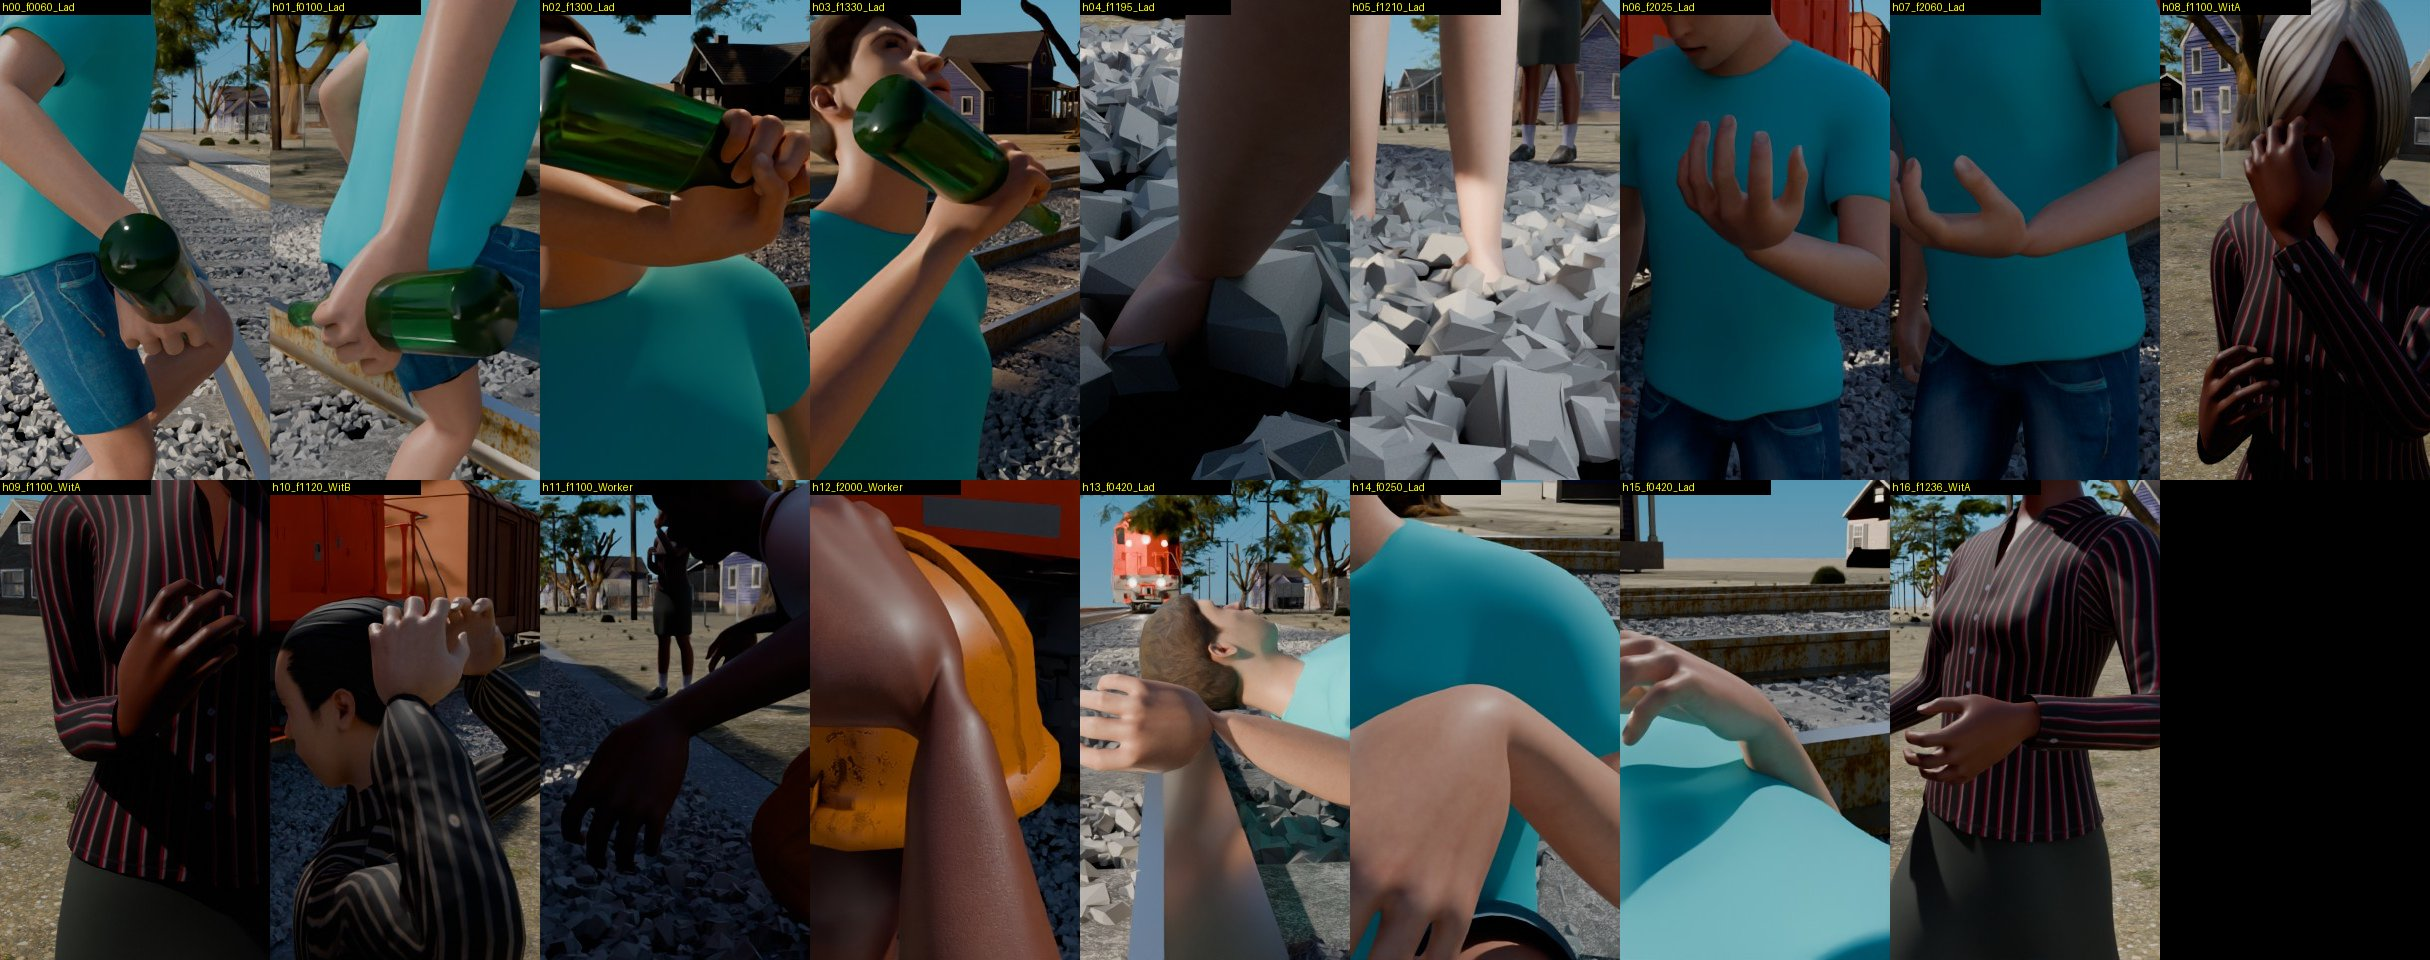
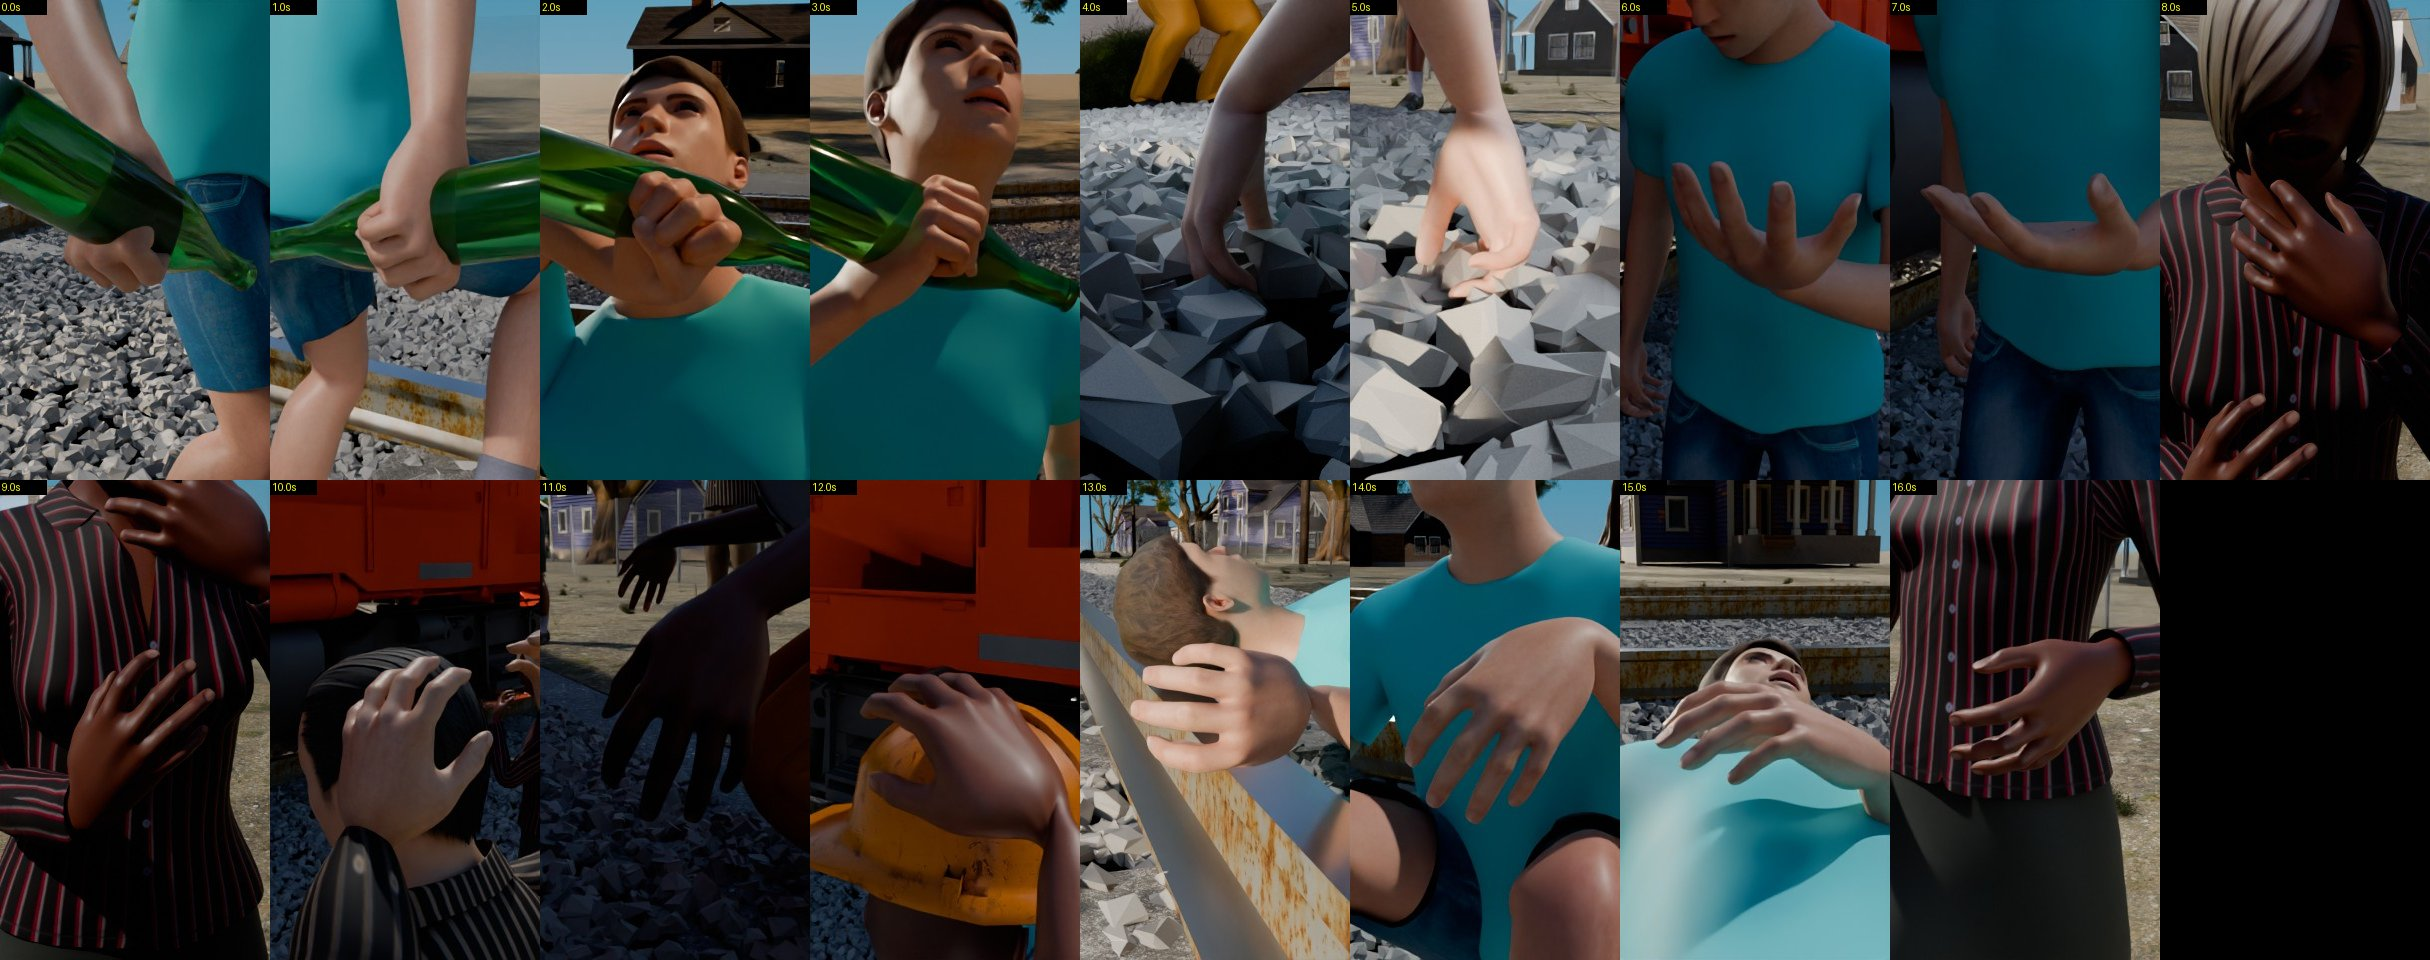
DrunkTrain v005: self-check fixes (relaxed fingers, open palm, crawl hands on stones, WitA hand at mouth, beat cameras, close-ups aimed with occlusion test)
Claude-Session: https://claude.ai/code/session_01XfwPSkp8x1sSXVwc46CaT2

diff --git a/blender/DrunkTrain_v001/scripts/03b_fx_camera.py b/blender/DrunkTrain_v001/scripts/03b_fx_camera.py
@@ -150,6 +150,7 @@ f_shut = 262; f_open = sc["f_stir"] + 8
 ramp_keys(LADO, LIDS, [(1, 18), (60, 26), (64, 6), (68, 22), (f_shut - 30, 22), (f_shut, 46), (f_open, 46), (f_open + 10, 20),
                        (f_open + 30, 10), (f_open + 34, 40), (f_open + 38, 12), (sc.frame_end - 120, 14), (sc.frame_end - 116, 38), (sc.frame_end - 112, 18)])
 # hands (client, 23:00): relaxed curled default on every character, anatomical limits on fingers, thumbs and wrists
+f_palm0_x = eval(sc["palm"])[0]
 RIGS4 = [bpy.data.objects[n] for n in ("Lad", "WitA", "WitB", "Worker")]
 def finger_names(rig, s_):
     return [b.name for b in rig.data.bones if b.name.startswith("finger") and b.name.endswith("." + s_)]
@@ -180,10 +181,13 @@ for rg in RIGS4:
         for n in finger_names(rg, s_):
             if n in keyed: continue
             j = int(n.split("-")[1].split(".")[0]); thumb = n.startswith("finger1")
-            key_local_rot(rg, n, 1, (10 if thumb else 14 + 6 * j))
+            key_local_rot(rg, n, 1, (8 if thumb else 8 + 4 * j))      # v005: softer, so idle hands read relaxed (no claws)
 # Lad's open right hand (outside the bottle grips) also relaxes rather than going flat
 FING_R = [("finger%d-%d.R" % (i, j), 0.6 if i == 1 else 1.0) for i in range(1, 6) for j in range(1, 4)]
 ramp_keys(LADO, FING_R, [(f_drop + 4, 28), (f_fb0 - 14, 28), (f_fb1 + 4, 28)])
+# v005: Lad's left hand opens flat-ish while he looks at his palm (beat 12), not a claw
+FING_L = [("finger%d-%d.L" % (i, j), 0.5 if i == 1 else 1.0) for i in range(1, 6) for j in range(1, 4)]
+ramp_keys(LADO, FING_L, [(1, 16), (f_palm0_x - 4, 16), (f_palm0_x + 8, 6), (sc.frame_end, 6)])
 # faces: snore (jaw), horror (jaw drop), stunned/dazed lids, the final dopey grin
 def key_jaw(rig, f, deg): key_local_rot(rig, "jaw", f, deg)
 def key_grin(rig, f, k):
@@ -607,14 +611,14 @@ CAM = [  # frame, camera, aim, lens
     (842, V(1.9, y(842) - 1.2, 0.36), lad_p(842), 20),
     (866, V(2.7, -42.8, 0.45), V(0.2, -40.0, 0.25), 24),
     (905, V(2.35, TF(905) + 1.5, 0.7), V(0.72, TF(905) + 4.5, 0.5), 24),
-    (935, V(3.5, -46.0, 2.2), V(0.9, -50.0, 0.8), 23),
+    (935, V(3.5, -46.0, 2.2), V(0.9, -42.5, 0.9), 23),      # v005: on the train braking, not the empty track
     (960, V(5.6, -31.0, 2.2), V(1.0, -45.0, 1.0), 22),
     (1015, V(7.6, -33.5, 6.4), V(2.2, -42.0, 0.6), 22),
     (1045, V(2.0, -40.2, 1.5), V(3.8, -38.9, 1.25), 20),
     (1090, V(1.95, -39.2, 1.45), V(3.9, -39.4, 1.2), 20),
     (1113, V(1.8, -40.4, 1.45), V(4.0, -38.4, 1.3), 18),
     (1138, V(1.85, -40.1, 0.95), V(2.62, -41.6, 0.8), 24),
-    (1168, V(2.7, -40.9, 0.62), V(0.3, -40.0, 0.35), 24),
+    (1168, V(2.6, -40.8, 0.3), V(0.5, -40.0, 0.38), 22),      # v005: under the skirt line, so his face reads as he stirs
     (1200, V(2.95, -41.0, 0.5), V(1.3, -40.0, 0.45), 24),
     (1230, V(3.45, -40.95, 0.9), V(2.2, -40.1, 1.05), 26),
     (1250, V(3.95, -40.6, 1.45), V(2.4, -40.1, 1.45), 28),
@@ -625,15 +629,15 @@ CAM = [  # frame, camera, aim, lens
     (1440, V(3.45, -40.1, 1.3), V(2.45, -40.1, 1.15), 26),
     (1500, V(3.1, -41.7, 1.35), V(2.45, -40.1, 1.05), 26),
     (1560, V(3.2, -41.25, 1.2), V(2.45, -40.35, 1.05), 32),
-    (1605, V(rp(1605).x + 1.4, rp(1605).y - 1.7, 1.0), rp(1605), 28),
-    (1625, V(rp(1625).x + 0.9, rp(1625).y - 1.0, 0.7), rp(1625), 30),
+    (1605, V(rp(1605).x + 2.1, rp(1605).y - 2.5, 1.3), rp(1605) + V(0, 0, 0.35), 26),
+    (1625, V(rp(1625).x + 1.5, rp(1625).y - 1.7, 1.0), rp(1625) + V(0, 0, 0.25), 28),
     (1680, V(rp(1680).x + 1.3, rp(1680).y - 1.5, 0.85), rp(1680), 28),
     (1750, V(rp(1750).x - 1.1, rp(1750).y - 1.0, 0.8), rp(1750), 30),
     (1812, V(rp(1812).x + 1.0, rp(1812).y - 1.1, 0.75), rp(1812), 30),
     (1834, V(rp(1834).x + 1.0, rp(1834).y - 1.0, 0.8), rp(1834), 30),
-    (1846, V(2.7, -38.0, 1.6), V(2.45, -40.3, 1.1), 26),
-    (1876, V(2.65, -38.3, 1.65), V(2.4, -41.0, 1.3), 28),
-    (1920, V(3.4, -40.0, 1.5), V(2.45, -41.8, 1.2), 28),
+    (1846, V(3.0, -42.5, 1.55), V(2.45, -40.4, 1.4), 26),      # v005: in front of him, face readable at the beat 12 start
+    (1876, V(3.0, -43.2, 1.6), V(2.4, -41.0, 1.5), 28),
+    (1920, V(3.2, -44.0, 1.55), V(2.45, -41.8, 1.45), 28),
     (1985, V(2.95, -44.6, 1.45), V(2.45, -42.85, 1.35), 28),
     (2020, V(2.78, -43.6, 1.5), V(2.5, -43.1, 1.42), 40),
     (2070, V(2.64, -43.8, 1.62), V(2.45, -42.9, 1.63), 40)]

diff --git a/blender/DrunkTrain_v001/scripts/07_hand_closeups.py b/blender/DrunkTrain_v001/scripts/07_hand_closeups.py
@@ -17,13 +17,35 @@ SHOTS = [(60, "Lad", "wrist.R", "bottle grip while staggering"), (100, "Lad", "w
          (1120, "WitB", "wrist.L", "hands on the head"), (1100, "Worker", "wrist.L", "steadying arm"),
          (2000, "Worker", "wrist.R", "scratches his hard hat"), (420, "Lad", "wrist.R", "lying: hand over the rail"),
          (250, "Lad", "wrist.L", "sitting: forearm on the knee"), (420, "Lad", "wrist.L", "lying: hand on the belly"), (1236, "WitA", "wrist.L", "steps back")]
+import math
+def hand_c(r, bn):
+    sd = bn[-2:]; pts = [r.matrix_world @ r.pose.bones[bn].head]
+    for nm in ("finger3-1" + sd, "finger2-1" + sd, "finger3-2" + sd):
+        if nm in r.pose.bones: pts.append(r.matrix_world @ r.pose.bones[nm].tail)
+    return sum(pts, Vector()) / len(pts)
+def clear(dg, cpos, tgt, owner):
+    d = tgt - cpos; L = d.length
+    hit, loc, _, _, ob, _ = sc.ray_cast(dg, cpos, d.normalized(), distance=L + 0.05)
+    if not hit: return False
+    top = ob
+    while top.parent: top = top.parent
+    return (loc - tgt).length < 0.07 and top == owner
 for i, (f, rn, bn, what) in enumerate(SHOTS):
-    sc.frame_set(f); r = bpy.data.objects[rn]
-    w = r.matrix_world @ r.pose.bones[bn].head
-    head = r.matrix_world @ r.pose.bones["head"].head
+    sc.frame_set(f); r = bpy.data.objects[rn]; dg = bpy.context.evaluated_depsgraph_get()
+    w = hand_c(r, bn); head = r.matrix_world @ r.pose.bones["head"].head
     d = (w - head); d.z = 0
-    side = d.normalized() if d.length > 1e-3 else Vector((1, 0, 0))
-    cam.location = w + side * 0.45 + Vector((0, 0, 0.12)) + (Vector((0.0, -0.25, 0.0)))
+    base = math.atan2(d.y, d.x) if d.length > 1e-3 else 0.0
+    best = None
+    for el in (0.25, 0.55, 0.0, 0.85):
+        for da in (0, 30, -30, 60, -60, 90, -90, 120, -120, 150, -150, 180):
+            a = base + math.radians(da)
+            dirv = Vector((math.cos(a) * math.cos(el), math.sin(a) * math.cos(el), math.sin(el)))
+            cp = w + dirv * 0.5
+            if cp.z < 0.05: continue
+            if clear(dg, cp, w, r): best = cp; break
+        if best: break
+    if best is None: best = w + Vector((0.3, -0.3, 0.25)); print("NOCLEAR", i)
+    cam.location = best
     cam.rotation_euler = (w - cam.location).to_track_quat('-Z', 'Y').to_euler()
     sc.render.filepath = os.path.join(out, "h%02d_f%04d_%s.jpg" % (i, f, rn)); bpy.ops.render.render(write_still=True)
     print("HAND", i, f, rn, bn, what)

diff --git a/blender/DrunkTrain_v001/scripts/03_animate.py b/blender/DrunkTrain_v001/scripts/03_animate.py
@@ -465,7 +465,7 @@ for f in list(range(f_crawl0, f_crawl1 + 1, 2)) + [f_crawl1]:
         fwd = 0.35 * (q if q <= 0.6 else 0.6 - (q - 0.6) * 1.5)
         # hand under the shoulder (world: down), knee under the hip: hands planted with palms flat
         Wh = Bm @ (LB.sh[s] + V(sx * 0.04, -0.06 - fwd * 0.4, -0.0))
-        Wh = V(Wh.x, Wh.y, ground_z(Wh.x, Wh.y) + 0.05 + lift)
+        Wh = V(Wh.x, Wh.y, ground_z(Wh.x, Wh.y) + 0.15 + lift)      # v005: palm on top of the stones, not sunk into them
         LAD.key_hand(s, f, Wh, Bm.to_3x3() @ V(0, -1, 0), V(0, 0, -1))
         hw = Bm @ LB.hip[s]; fwd_ = V(math.sin(R_(yaw_c)), -math.cos(R_(yaw_c)), 0)
         kq = (ph + 0.5 * k + 0.5) % 1.0; kf = 0.25 * (kq if kq <= 0.6 else 0.6 - (kq - 0.6) * 1.5); klift = 0.06 * math.sin(math.pi * kq) if kq > 0.6 else 0.0
@@ -673,8 +673,8 @@ for name in BYS:
                 sx = 1 if s == "L" else -1
                 if name == "WitA":
                     if s == "L":      # one hand over the mouth
-                        Wt = mouth + V(0.05, -0.13, -0.15)
-                        Bd.hand(s, f, Bm, (Bd.sh[s] + V(sx * 0.28, -0.25, -0.38)).lerp(Wt, u), V(-0.3, -0.15, 1).normalized(), V(0, 1, 0))
+                        Wt = mouth + V(0.09, -0.12, -0.2)      # v005: fingers angled across the mouth, below the nose, not pressed on the face
+                        Bd.hand(s, f, Bm, (Bd.sh[s] + V(sx * 0.28, -0.25, -0.38)).lerp(Wt, u), V(-0.75, -0.1, 0.65).normalized(), V(0, 1, 0))
                     else:             # the other held just off her chest
                         Wt = Bd.sh["R"] + V(0.1, -0.24, -0.2)
                         Bd.hand(s, f, Bm, (Bd.sh[s] + V(sx * 0.28, -0.25, -0.38)).lerp(Wt, u), V(0.6, -0.2, 0.75).normalized(), V(0, 1, 0))
